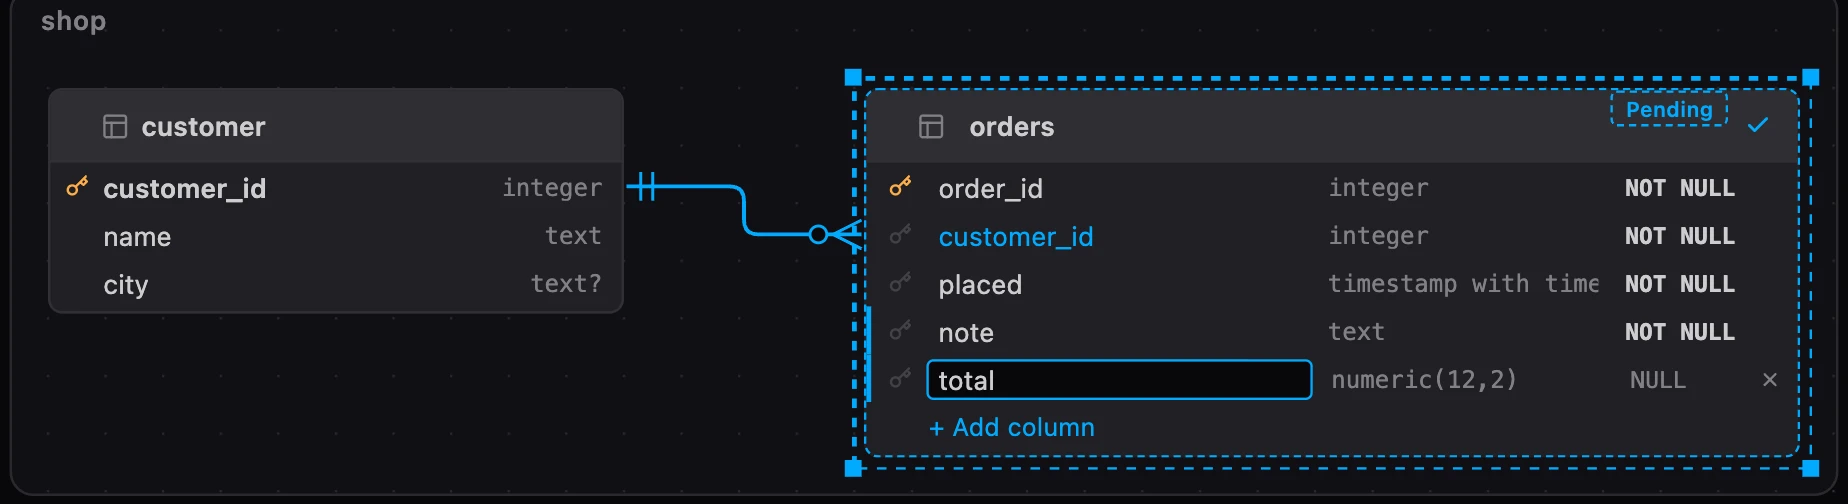
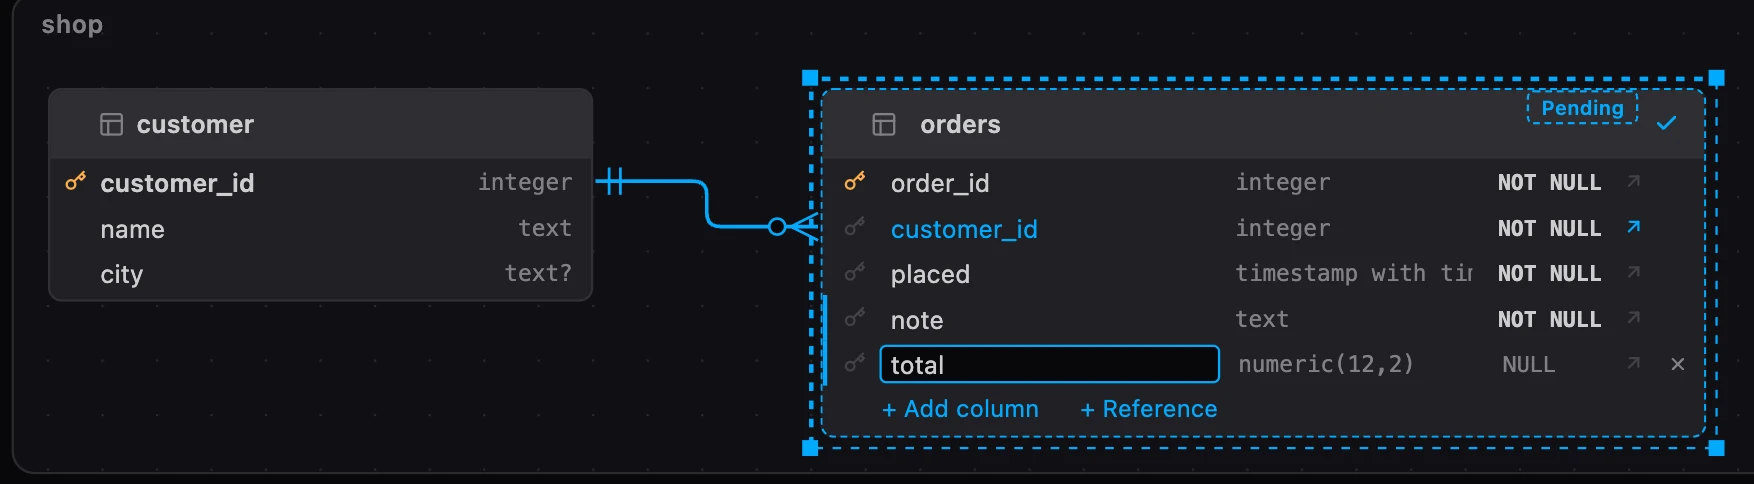
changelog: 0.33.0 notes: draw a foreign key on a diagram card

diff --git a/changelog/free-v0.33.0/README.md b/changelog/free-v0.33.0/README.md
@@ -3,7 +3,7 @@
 ## Highlights
 
 - **Edit tables on the diagram:** double-click a table's card and change its columns right
-  there, without leaving the diagram.
+  there, without leaving the diagram, and draw its foreign keys to other tables.
 - **Properties from a right click:** a table, a schema or a file shows its properties from
   its menu.
 - **A shorter right click in Objects:** an object's menu in groups, eighteen entries instead of
@@ -36,6 +36,23 @@ reaches the database until you review it and run it. A new table made on the dia
 
 A new table lives only in your pending changes and on its card, so deleting its card from the
 diagram discards the table too. Undo on the diagram brings both back.
+
+### Draw a foreign key
+
+While a table is open for editing on its card, every column has a small arrow, its foreign
+key. Drag it to another table and the column references that table's primary key. The line
+follows your pointer, and the table under it says what the key would reference, or why it
+can't (a table with no one-column key is outlined in red). Drop it on a unique column of the
+other table to reference that column instead, or on another column of the same card for a
+key to the table itself; Escape lets go without drawing anything.
+
+![A foreign key being drawn on a diagram: a line from the orders card to the product card, which says what it would reference](media/card-fk.webp)
+
+**+ Reference**, beside **+ Add column**, makes the column for you: drag it to `product` and
+`orders` gets a `product_id` of the same type as the key, with its foreign key. Clicking the
+arrow (or pressing Enter on it) lists the diagram's tables instead, and takes a key away
+again. The new key is drawn at once, as a pending line, and waits in the Changes script with
+the rest; ON DELETE and the other options are in Properties.
 
 ## Properties
 
